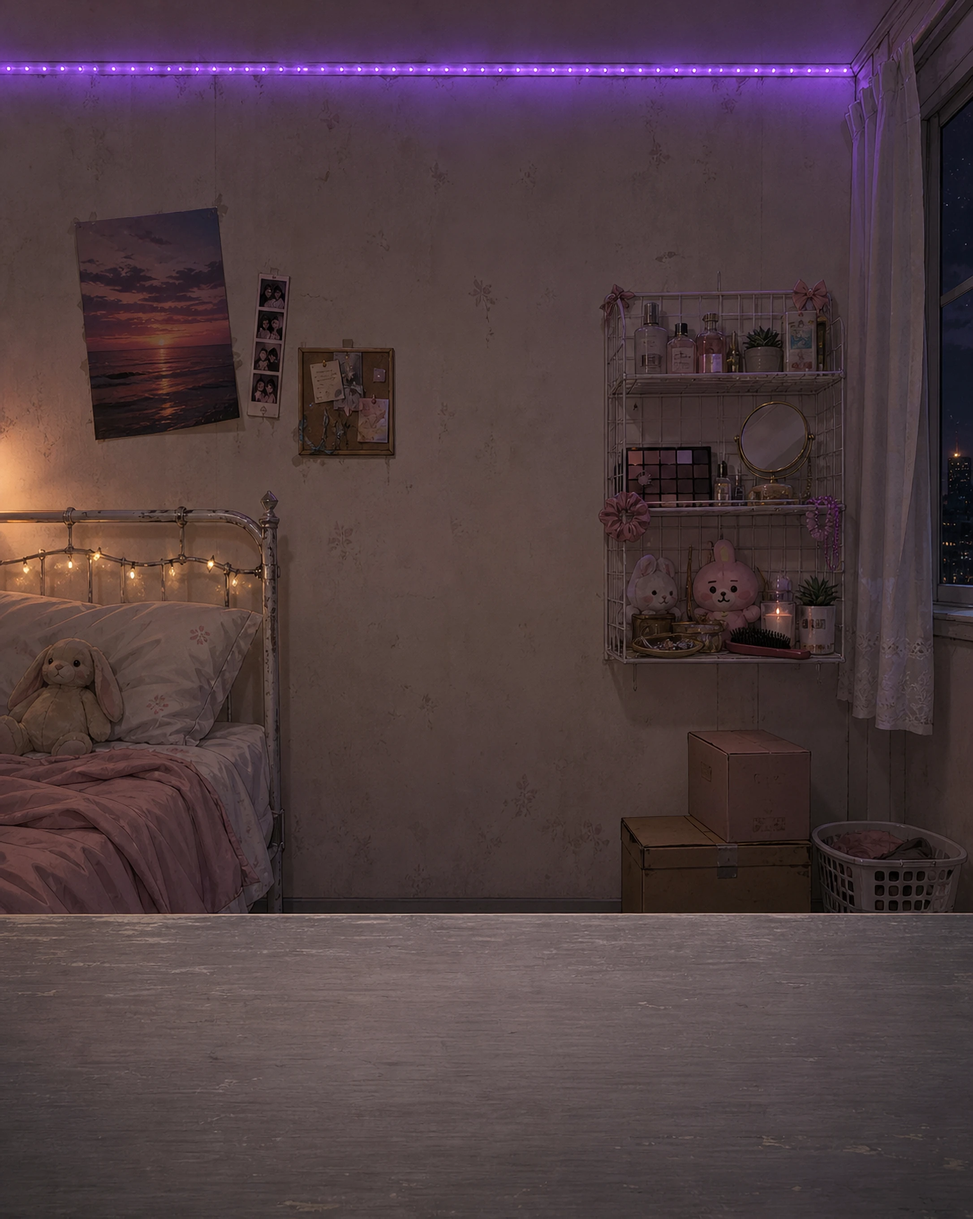
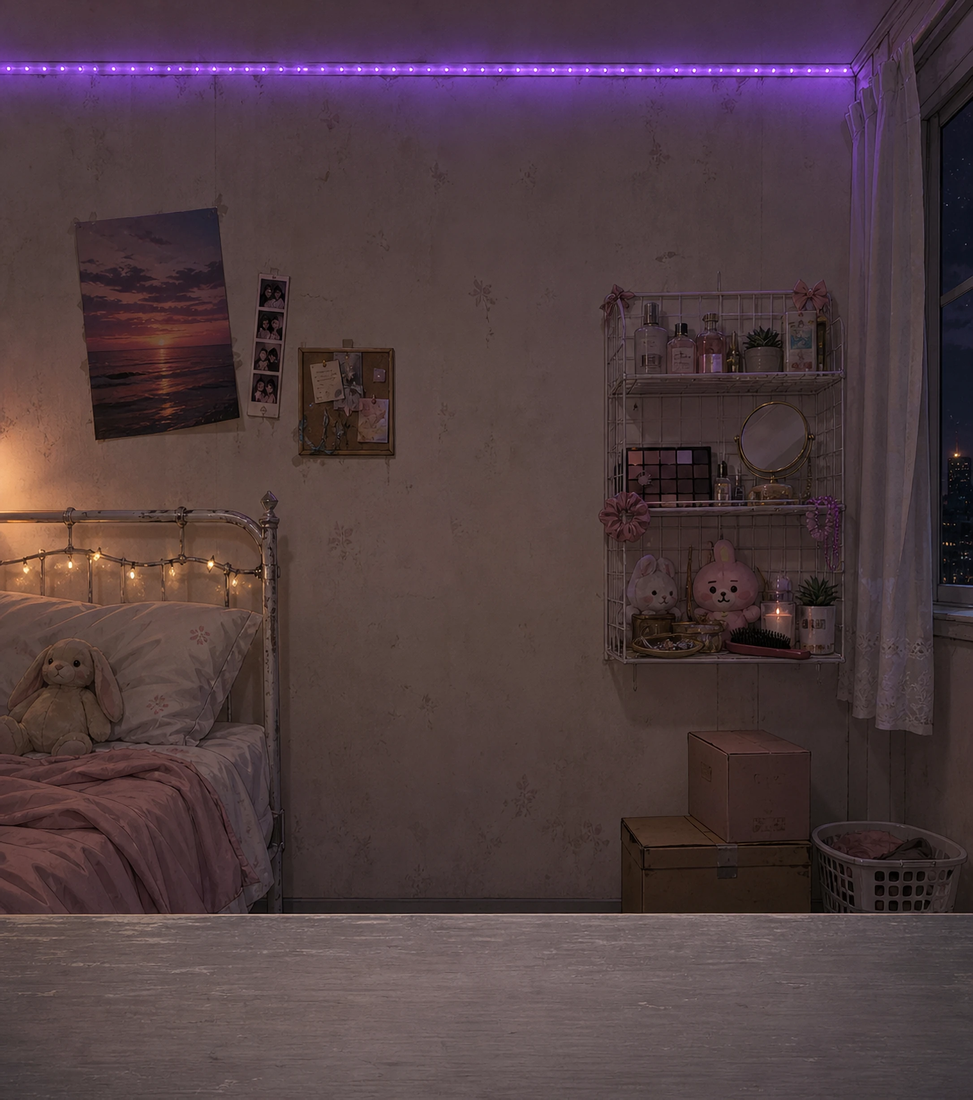
Closer framing in stages 1-3 (trimmed plate so the desk band is smaller), imperceptible idle breathing anchored at her chest, desk foreground shares the background filter, and stage 4 pushes the camera into the room so the plate's own desk no longer shows behind the chair

diff --git a/index.html b/index.html
@@ -356,11 +356,11 @@ main{
 }
 
 @keyframes streamerIdle{
-  0%, 100% { transform:scale(1.02) translateY(0); }
-  50%      { transform:scale(1.024) translateY(-5px); }
+  0%, 100% { transform:scaleY(1) translateY(0); }
+  50%      { transform:scaleY(1.009) translateY(-1px); }
 }
 .art-img{ transform-origin:50% 50%; }
-.art-lean.idle .art-img{ animation:streamerIdle 3.6s ease-in-out infinite; }
+.art-lean.idle .art-img{ animation:streamerIdle 4.4s ease-in-out infinite; transform-origin:50% 68%; }
 
 #fpsBadge{
   position:absolute; left:10px; bottom:10px; z-index:7; display:none;
@@ -960,7 +960,9 @@ main{
   object-fit:cover; object-position:50% 50%;
   opacity:1; z-index:1; pointer-events:none;
   filter:saturate(.96) brightness(.9);
-  transition:filter .5s ease;
+  transition:filter .5s ease, transform .6s cubic-bezier(.4,0,.2,1);
+  transform-origin:50% 50%;
+  will-change:transform;
 }
 .hero .art-lean{ position:absolute; inset:0; z-index:4; }
 /* центрируем флексом, а не transform'ом: idle-анимация картинки не сдвигает её с центра.
@@ -968,11 +970,11 @@ main{
 .hero .art-tap{
   position:absolute; inset:0; display:flex;
   align-items:flex-end; justify-content:center;
-  padding-bottom:20.5%;
+  padding-bottom:2%;
 }
 .hero .art-img{
   position:relative; inset:auto; margin:0;
-  height:76%; width:auto; max-width:none; max-height:100%;
+  height:90%; width:auto; max-width:none; max-height:100%;
   object-fit:contain; object-position:50% 100%;
   padding:0; background:transparent;
   filter:drop-shadow(0 18px 40px rgba(0,0,0,.55));
@@ -986,12 +988,15 @@ main{
   position:absolute; inset:0; width:100%; height:100%;
   object-fit:cover; object-position:50% 50%;
   z-index:6; pointer-events:none;
+  filter:saturate(.96) brightness(.9);
   transition:transform .55s cubic-bezier(.4,0,.2,1), opacity .45s ease;
 }
 /* поза 4: камера ближе, стол уходит из кадра */
 #scene.stage-4 .art-tap{ padding-bottom:0; }
 #scene.stage-4 .art-img{ height:100%; max-height:none; }
 #scene.stage-4 .art-desk{ transform:translateY(104%); opacity:0; }
+/* стадия 4: камера подъезжает — комната придвигается, её собственный стол уходит за кадр */
+#scene.stage-4 .art-bg{ transform:translateY(10%) scale(1.2); }
 
 .hero-glow{
   position:absolute; left:-10%; right:-10%; bottom:-6%; height:62%; z-index:2; pointer-events:none;

diff --git a/tools/prep_room.py b/tools/prep_room.py
@@ -75,7 +75,7 @@ def prep_desk(factor=2.0, out_w=2600):
     return art
 
 
-def prep_plate(factor=2.0, crop_bottom=1360, edge_row=1018, ramp=12, q=90):
+def prep_plate(factor=2.0, crop_bottom=1227, edge_row=1018, ramp=10, q=90):
     """Плата комнаты: кроп низа -> ACNet x2 -> WebP. Передний план режется из того же
     массива, поэтому в игре BG и FG совпадают пиксель в пиксель."""
     src = Image.open(os.path.join(SRC, '_plate_a.png')).convert('RGB')
